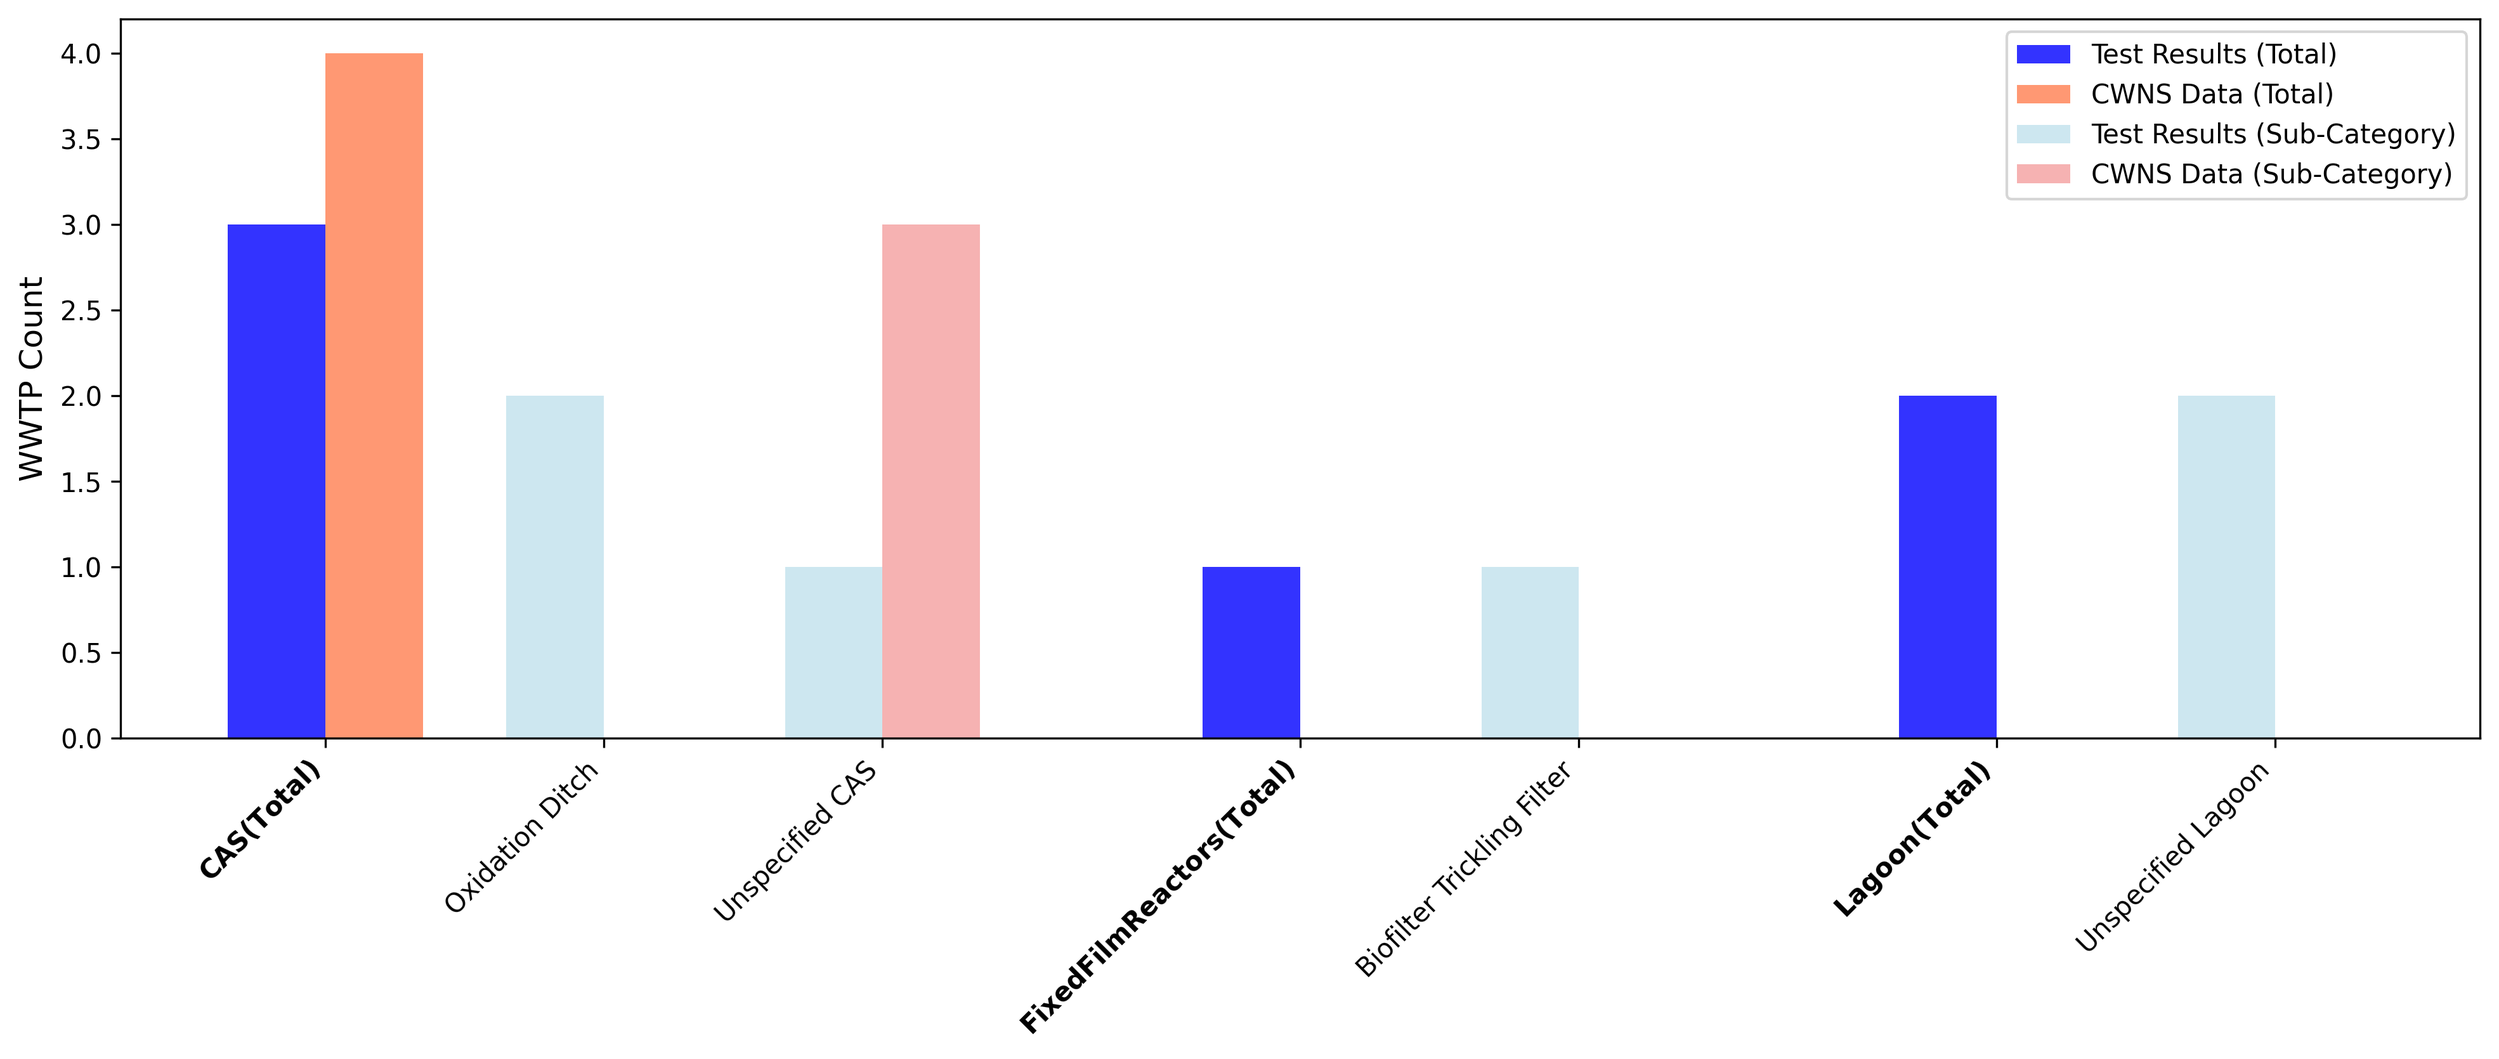
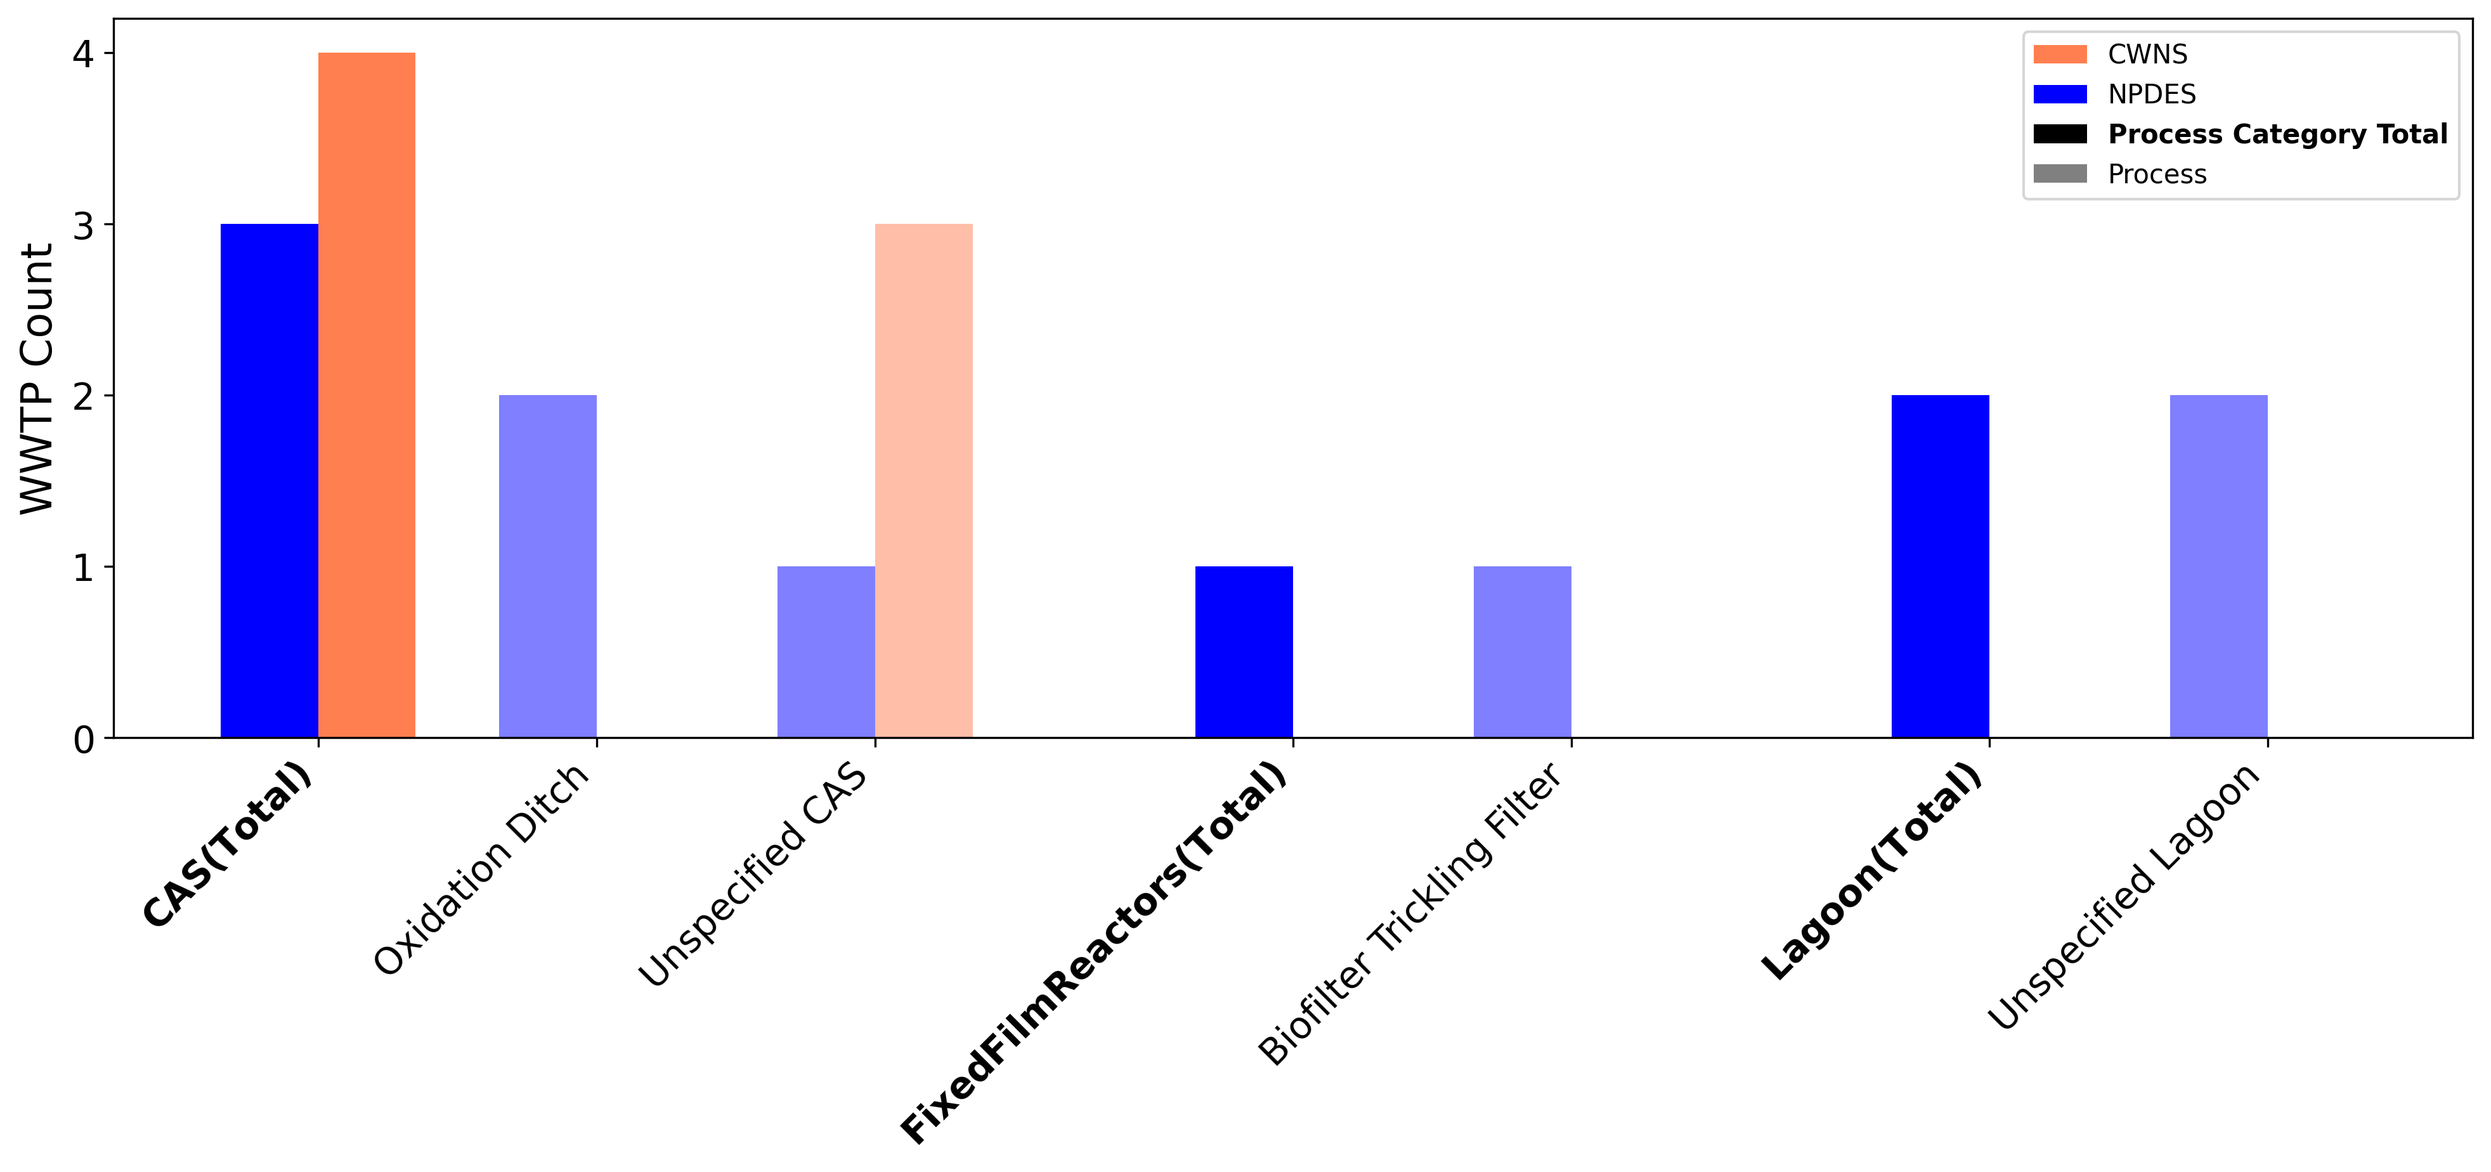
Moving shared functions into utility .py file for use in testing_upi and comparison_plottingget_parent_child_mapping
Adding custom legend to bar plot and cleaning up plotting code

diff --git a/comparison_plotting.py b/comparison_plotting.py
@@ -1,12 +1,13 @@
 import json
 import matplotlib.pyplot as plt
+from matplotlib.patches import Patch
 import pandas as pd
 
+from utils import *
+
 COLORS = {
-    'test_results_total': 'blue',
-    'cwns_data_total': 'coral',
-    'test_results_subcategory': 'lightblue',
-    'cwns_data_subcategory': 'lightcoral'
+    'cwns': 'coral',
+    'npdes': 'blue'
 }  # can change to any hex code or matplotlib default
 
 with open('data/unitprocess_keywords.json', 'r') as f:
@@ -21,52 +22,13 @@ test_results_df = pd.DataFrame([test_results_aggregated])
 
 
 # 2. LOAD AND ORGANIZE CWNS DATA FROM EL ABBADI 2024
-def extract_process_names(processes_dict):
-    """Function to recursively extract list of process details from json"""
-    for process_name, details in processes_dict.items():
-        if isinstance(details, dict):
-            # Check if this is a process with alt_names (lowest level)
-            if 'alt_names' in details and details['alt_names']:
-                process_names.append(process_name)
-            else:  # Recursively extract children of parent category
-                for nested_key, nested_details in details.items():
-                    if isinstance(nested_details, dict) and 'alt_names' in nested_details:
-                        process_names.append(nested_key)
-
-def get_el_abbadi_code_mapping(process_name, unitprocess_keywords):
-    """Get EL_ABBADI_2024_CODE for a process name as needed"""
-    for category, processes in unitprocess_keywords.items():
-        if isinstance(processes, dict):
-            # Check if this is a process with alt_names (lowest level)
-            if process_name in processes and 'EL_ABBADI_2024_CODE' in processes[process_name]:
-                return processes[process_name]['EL_ABBADI_2024_CODE']
-            # Check parent categories then their children
-            for parent_name, parent_details in processes.items():
-                if isinstance(parent_details, dict) and process_name in parent_details:
-                    if 'EL_ABBADI_2024_CODE' in parent_details[process_name]:
-                        return parent_details[process_name]['EL_ABBADI_2024_CODE']
-    return None
-
-def has_sub_processes(process_details):
-    """Check if a process has sub-processes (is a parent category)"""
-    if not isinstance(process_details, dict):
-        return False
-    # If it has alt_names, it's a leaf process
-    if 'alt_names' in process_details:
-        return False
-    # If it has other dict items that have alt_names, it's a parent
-    return any(isinstance(v, dict) and 'alt_names' in v for v in process_details.values())
-
-# Load CWNS data and filter to include matching permit numbers from PDF scraping
 cwns_data = pd.read_csv('output/unit_processes_by_facility.csv')
 ca_cwns_data = cwns_data[cwns_data['STATE_CODE'] == 'CA'].copy()
 matching_cwns_data = ca_cwns_data[ca_cwns_data['PERMIT_NUMBER'].isin(test_permit_numbers)].copy()
 
-# Extract process names from keywords
-process_names = []
-for category, processes in unitprocess_keywords.items():
-    if isinstance(processes, dict):
-        extract_process_names(processes)
+# Extract all process names and parent-child mapping
+process_names = get_all_keys(unitprocess_keywords['secondary'])
+parent_child_mapping = get_parent_child_mapping(unitprocess_keywords['secondary'])
 
 # Count matching CWNS facilities with each process
 matching_cwns_results_df = pd.DataFrame(0, index=[0], columns=process_names)
@@ -83,126 +45,108 @@ for process_name in process_names:
         matching_cwns_results_df.loc[0, process_name] = count
 
 # Create parent category columns by summing their child processes
-for parent_name, parent_details in unitprocess_keywords['secondary'].items():
-    if has_sub_processes(parent_details):
-        # Sum child processes for test results
-        test_sub_category_sum = 0
-        for sub_name, sub_details in parent_details.items():
-            if isinstance(sub_details, dict) and 'alt_names' in sub_details:
-                if sub_name in test_results_df.columns:
-                    test_sub_category_sum += test_results_df.loc[0, sub_name]
-
-        # Sum child processes for CWNS results
-        cwns_sub_category_sum = 0
-        for sub_name, sub_details in parent_details.items():
-            if isinstance(sub_details, dict) and 'alt_names' in sub_details:
-                if sub_name in matching_cwns_results_df.columns:
-                    cwns_sub_category_sum += matching_cwns_results_df.loc[0, sub_name]
-
-        # Create parent columns if they don't exist
-        if parent_name not in test_results_df.columns:
-            test_results_df[parent_name] = 0
-        if parent_name not in matching_cwns_results_df.columns:
-            matching_cwns_results_df[parent_name] = 0
-
-        # Set the parent values
-        test_results_df.loc[0, parent_name] = test_sub_category_sum
-        matching_cwns_results_df.loc[0, parent_name] = cwns_sub_category_sum
+for parent_name, child_processes in parent_child_mapping.items():
+    # Sum child processes for test results
+    test_sub_category_sum = sum(test_results_df.loc[0, child] for child in child_processes 
+                               if child in test_results_df.columns)
+    
+    # Sum child processes for CWNS results  
+    cwns_sub_category_sum = sum(matching_cwns_results_df.loc[0, child] for child in child_processes 
+                               if child in matching_cwns_results_df.columns)
+    
+    # Create parent columns and set values
+    test_results_df[parent_name] = test_sub_category_sum
+    matching_cwns_results_df[parent_name] = cwns_sub_category_sum
 
 # 3. CREATE COMPARISON PLOTS FOR SECONDARY PROCESSES
-# Get processes that exist in test results (have non-zero values)
 test_processes = [process for process, count in test_results_aggregated.items() if count > 0]
 
 # Create plot data for processes that exist in test results
 plot_data = []
 current_pos = 0
 
-for parent_name, parent_details in unitprocess_keywords['secondary'].items():
-    if has_sub_processes(parent_details):
-        # Check if this parent or any of its sub-categories exist in test results
-        parent_in_tests = parent_name in test_processes
-        sub_categories_in_tests = []
-        for sub_name, sub_details in parent_details.items():
-            if isinstance(sub_details, dict) and 'alt_names' in sub_details:
-                if sub_name in test_processes:
-                    sub_categories_in_tests.append(sub_name)
-
-        # Only add to plot if parent or any sub-category exists in test results
-        if parent_in_tests or sub_categories_in_tests:
-            # Always add parent category total first (even if it's 0)
-            plot_data.append({
-                'Category': 'Total',
-                'Parent': parent_name,
-                'Process': f'{parent_name} (Total)',
-                'Test_Results': test_results_df.loc[0, parent_name] if parent_name in test_results_df.columns else 0,
-                'CWNS_Data': matching_cwns_results_df.loc[0, parent_name] if parent_name in matching_cwns_results_df.columns else 0,
-                'Position': current_pos
-            })
-            current_pos += 1
-
-            # Then add sub-categories that exist in test results
-            for sub_name, sub_details in parent_details.items():
-                if isinstance(sub_details, dict) and 'alt_names' in sub_details:
-                    if sub_name in test_processes:
-                        plot_data.append({
-                            'Category': 'Sub-Category',
-                            'Parent': parent_name,
-                            'Process': sub_name,
-                            'Test_Results': test_results_df.loc[0, sub_name] if sub_name in test_results_df.columns else 0,
-                            'CWNS_Data': matching_cwns_results_df.loc[0, sub_name] if sub_name in matching_cwns_results_df.columns else 0,
-                            'Position': current_pos
-                        })
-                        current_pos += 1
-
-            current_pos += 0.5  # spacing
+for parent_name, child_processes in parent_child_mapping.items():
+    # Find child processes that exist in test results
+    existing_child_processes = [child for child in child_processes if child in test_processes]
+    
+    # Only add to plot if parent or any child process exists in test results
+    parent_in_tests = parent_name in test_processes
+    if not (parent_in_tests or existing_child_processes):
+        continue
+    
+    # Add parent category total
+    plot_data.append({
+        'Category': 'Total',
+        'Parent': parent_name,
+        'Process': f'{parent_name} (Total)',
+        'Test_Results': test_results_df.loc[0, parent_name],
+        'CWNS_Data': matching_cwns_results_df.loc[0, parent_name],
+        'Position': current_pos
+    })
+    current_pos += 1
+    
+    # Add child processes
+    for process_name in existing_child_processes:
+        plot_data.append({
+            'Category': 'Process',
+            'Parent': parent_name,
+            'Process': process_name,
+            'Test_Results': test_results_df.loc[0, process_name],
+            'CWNS_Data': matching_cwns_results_df.loc[0, process_name],
+            'Position': current_pos
+        })
+        current_pos += 1
+    
+    current_pos += 0.5  # spacing
 
 plot_df = pd.DataFrame(plot_data)
 
-# Plot bars with different colors for parent vs sub-categories
 fig, ax = plt.subplots(figsize=(16, 6))
 width = 0.35
 
-for category in ['Total', 'Sub-Category']:
+# Plot bars for each category
+for category in ['Total', 'Process']:
     mask = plot_df['Category'] == category
-    if mask.any():
-        if category == 'Sub-Category':
-            ax.bar(plot_df[mask]['Position'] - width/2, plot_df[mask]['Test_Results'], width,
-                   color=COLORS['test_results_subcategory'], alpha=0.6, label='Test Results (Sub-Category)' if category == 'Sub-Category' else "")
-            ax.bar(plot_df[mask]['Position'] + width/2, plot_df[mask]['CWNS_Data'], width,
-                   color=COLORS['cwns_data_subcategory'], alpha=0.6, label='CWNS Data (Sub-Category)' if category == 'Sub-Category' else "")
-        else:  # Totals
-            ax.bar(plot_df[mask]['Position'] - width/2, plot_df[mask]['Test_Results'], width,
-                   color=COLORS['test_results_total'], alpha=0.8, label='Test Results (Total)' if category == 'Total' else "")
-            ax.bar(plot_df[mask]['Position'] + width/2, plot_df[mask]['CWNS_Data'], width,
-                   color=COLORS['cwns_data_total'], alpha=0.8, label='CWNS Data (Total)' if category == 'Total' else "")
+    
+    alpha = 1.0 # bar transparency
+    if category == 'Process':
+        alpha = 0.5
+    
+    # Plot NPDES data
+    ax.bar(plot_df[mask]['Position'] - width/2, plot_df[mask]['Test_Results'], width,
+           color=COLORS['npdes'], alpha=alpha)
+    
+    # Plot CWNS data
+    ax.bar(plot_df[mask]['Position'] + width/2, plot_df[mask]['CWNS_Data'], width,
+           color=COLORS['cwns'], alpha=alpha)
 
 # Set x-axis labels for sub-categories and totals
 all_positions = plot_df['Position'].tolist()
 all_labels = plot_df['Process'].tolist()
 
 # Make parent categories bold
-bold_labels = []
-for label in all_labels:
-    # Check if this is a parent category (has "(Total)" or is a standalone parent)
-    is_parent = False
-    if "(Total)" in label:
-        is_parent = True
-    else:
-        # Check if this is a standalone parent category in secondary
-        for parent_name, parent_details in unitprocess_keywords['secondary'].items():
-            if label == parent_name and has_sub_processes(parent_details):
-                is_parent = True
-                break
-
-    if is_parent:
-        bold_labels.append(f"$\\bf{{{label}}}$")  # LaTeX bold formatting
-    else:
-        bold_labels.append(label)
+bold_labels = [f"$\\bf{{{label}}}$" if is_parent_category(label, unitprocess_keywords) 
+                else label for label in all_labels]
 
 ax.set_xticks(all_positions)
-ax.set_xticklabels(bold_labels, rotation=45, ha='right', fontsize=10)
+ax.set_xticklabels(bold_labels, rotation=45, ha='right', fontsize=14)
 
-ax.set_ylabel('WWTP Count', fontsize=12)
-ax.legend()
+# Set y-axis to integers
+ax.yaxis.set_major_locator(plt.MaxNLocator(integer=True))
+
+ax.set_ylabel('WWTP Count', fontsize=16)
+ax.tick_params(axis='both', which='major', labelsize=14)
+
+# Create custom legend
+legend_elements = [
+    Patch(facecolor=COLORS['cwns'], label='CWNS'),
+    Patch(facecolor=COLORS['npdes'], label='NPDES'),
+    Patch(facecolor='black', label='Process Category Total'),
+    Patch(facecolor='grey', label='Process')
+]
+legend = ax.legend(handles=legend_elements, loc='upper right')
+# Make the third legend entry bold
+legend.get_texts()[2].set_weight('bold')
+
 plt.subplots_adjust(bottom=0.25)  # Reduce bottom margin
 plt.savefig('output/test_results_vs_cwns_comparison.png', dpi=300, bbox_inches='tight')

diff --git a/utils.py b/utils.py
@@ -1,0 +1,46 @@
+def get_all_keys(processes_dict):
+    """Extract all leaf processes (those with alt_names) from the JSON structure"""
+    processes = []
+    for process_name, details in processes_dict.items():
+        if isinstance(details, dict):
+            if 'alt_names' in details and details['alt_names']:
+                processes.append(process_name)
+            else:  # Parent category, recursively get children
+                processes.extend(get_all_keys(details))
+    return processes
+
+def get_parent_child_mapping(processes_dict):
+    """Create mapping of parent processes to their child processes"""
+    mapping = {}
+    for parent_name, parent_details in processes_dict.items():
+        if isinstance(parent_details, dict) and 'alt_names' not in parent_details:
+            # This is a parent category
+            children = [child_name for child_name, child_details in parent_details.items()
+                       if isinstance(child_details, dict) and 'alt_names' in child_details]
+            if children:
+                mapping[parent_name] = children
+    return mapping
+
+def get_el_abbadi_code_mapping(process_name, unitprocess_keywords):
+    """Get EL_ABBADI_2024_CODE for a process name"""
+    for category, processes in unitprocess_keywords.items():
+        if isinstance(processes, dict):
+            if process_name in processes and 'EL_ABBADI_2024_CODE' in processes[process_name]:
+                return processes[process_name]['EL_ABBADI_2024_CODE']
+            for parent_name, parent_details in processes.items():
+                if isinstance(parent_details, dict) and process_name in parent_details:
+                    if 'EL_ABBADI_2024_CODE' in parent_details[process_name]:
+                        return parent_details[process_name]['EL_ABBADI_2024_CODE']
+    return None
+
+def is_parent_category(label, unitprocess_keywords):
+    """Check if a label represents a parent category"""
+    if "(Total)" in label:
+        return True
+    # Check if this is a standalone parent category in secondary
+    for parent_name, parent_details in unitprocess_keywords['secondary'].items():
+        if (label == parent_name and 
+            any(isinstance(v, dict) and 'alt_names' in v 
+                for v in parent_details.values())):
+            return True
+    return False

diff --git a/testing_upi.py b/testing_upi.py
@@ -7,20 +7,7 @@ import json
 import re
 import pandas as pd
 
-# Method that returns list of all keys in a dictionar, includding nested keys
-def get_all_keys(dictionary, keys=None):
-    if keys is None:
-        keys = []
-    
-    for key, value in dictionary.items():
-        if isinstance(value, dict):
-            if 'alt_names' in value:  # Check if this is a process at lowest-level of dict
-                keys.append(key)
-            else:  # This is a parent category. Recursively get child keys
-                # This is a parent category, recursively search its children
-                get_all_keys(value, keys)
-    
-    return keys
+from utils import *
 
 # Returns string of all text in PDF
 def pdf_string(pdf):
@@ -82,7 +69,7 @@ def search_processes_in_text(processes_dict, results, parent_name=None):
     for process_name, details in processes_dict.items():  # Loop through items in json
         if isinstance(details, dict):
             # Check if this is a process with alt_names (lowest level)
-            if 'alt_names' in details and details['alt_names']:
+            if 'alt_names' in details:
                 # Initialize unit process key to 0
                 if process_name not in results:
                     results[process_name] = 0  # Initialize unit process to zero
@@ -114,6 +101,7 @@ def search_processes_in_text(processes_dict, results, parent_name=None):
 # Opens JSON file with keywords
 with open('data/unitprocess_keywords.json', 'r') as f:
     keywords = json.load(f)
+
 # Creates mock data for later use
 file = open('output/mock_data.csv', 'w', newline = '')
 mock_csv = csv.writer(file)
@@ -137,8 +125,8 @@ with open('output/mock_data.csv', 'r') as f:
    for line in csv.reader(f):
        data.append(line[0])
 
-# Variable for all UPI names
-all_keys = (get_all_keys(keywords))
+# Get all process names
+all_keys = get_all_keys(keywords)
 
 # Creates header for CSV
 headers = []
